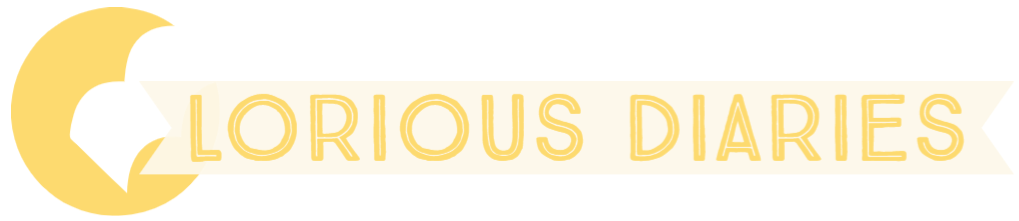
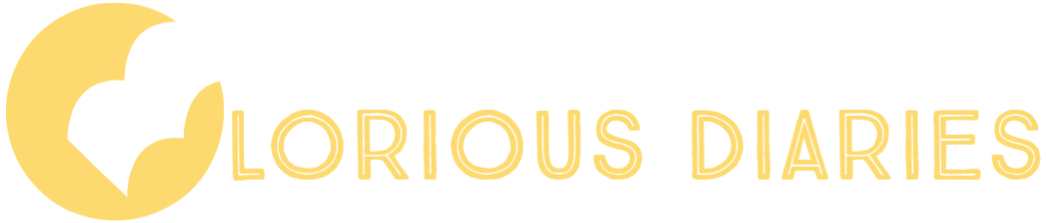
Update

diff --git a/components/Footer.js b/components/Footer.js
@@ -6,61 +6,65 @@ import mailIcon from "../public/images/mail_icon.svg"
 import phoneIcon from "../public/images/phone_icon.svg"
 import instaLogo from "../public/images/insta_logo.svg"
 import facebookLogo from "../public/images/facebook_logo.svg"
+import logoFooter from "../public/images/glorious_diaries_footer.png"
 
 
 export default function Footer() {
     return (
         <div className={styles.container}>
+            <div className={styles.logo_footer}>
+                <Image src={logoFooter} alt="Glorious Diaries Footer Logo" width={470} height={100} />
+            </div>
             <div className={styles.navigate_container}>
                 <h1>navigate.</h1>
                 <div className={styles.links_container}>
                     <div>
                         <Link href="/">
-                            <h2>Home ></h2>
+                            <h2>Home &gt;</h2>
                         </Link>
                         <Link href="/about">
-                            <h2>About ></h2>
+                            <h2>About &gt;</h2>
                         </Link>
                         <Link href="/team">
-                            <h2>Our Team ></h2>
+                            <h2>Our Team &gt;</h2>
                         </Link>
                         <Link href="/shop">
-                            <h2>Shop ></h2>
+                            <h2>Shop &gt;</h2>
                         </Link>
                         <Link href="/commissions">
-                            <h2>Commissions ></h2>
+                            <h2>Commissions &gt;</h2>
                         </Link>
                     </div>
                     <div>
-                        <h2>Journey to 1000 Trails ></h2>
-                        <h2>Medlife ></h2>
-                        <h2>To read/watch ></h2>
+                        <h2>Journey to 1000 Trails &gt;</h2>
+                        <h2>Medlife &gt;</h2>
+                        <h2>To read/watch &gt;</h2>
                     </div>
                 </div>
             </div>
             <div className={styles.ama_container}>
                 <h1>ask me anything.</h1>
                 <div className={styles.ama_info}>
-                    <Image src={mailIcon} rel="Mail Icon" />
+                    <Image src={mailIcon} alt="Mail Icon" />
                     <h3>QandA@gloriousdiaries.com</h3>
                 </div>
                 <div className={styles.ama_info}>
-                    <Image src={phoneIcon} rel="Phone Icon" />
+                    <Image src={phoneIcon} alt="Phone Icon" />
                     <h3>+1 (###) - ### - ####</h3>
                 </div>
             </div>
             <div>
-                <h1>let's connect.</h1>
+                <h1>let&apos;s connect.</h1>
                 <div className={styles.connect_icons}>
                     <div className={styles.connect_icon}>
-                        <Link href="https://www.instagram.com/glostar_ma/">
-                            <Image src={instaLogo} rel="Instagram Logo" />
-                        </Link>
+                        <a target="_blank" href="https://www.instagram.com/glostar_ma/" rel="noopener noreferrer">
+                            <Image src={instaLogo} alt="Instagram Logo" />
+                        </a>
                     </div>
                     <div className={styles.connect_icon}>
-                        <Link href="https://www.facebook.com/xixi.ma.14">
-                            <Image src={facebookLogo} rel="Facebook Logo" />
-                        </Link>
+                        <a target="_blank" href="https://www.facebook.com/xixi.ma.14" rel="noopener noreferrer">
+                            <Image src={facebookLogo} alt="Facebook Logo" />
+                        </a>
                     </div>
                 </div>
             </div>

diff --git a/styles/Home.module.css b/styles/Home.module.css
@@ -1,116 +1,28 @@
 .container {
-  padding: 0 2rem;
-}
-
-.main {
-  min-height: 100vh;
-  padding: 4rem 0;
-  flex: 1;
   display: flex;
   flex-direction: column;
-  justify-content: center;
-  align-items: center;
+  height: 100vh;
 }
 
-.footer {
-  display: flex;
-  flex: 1;
-  padding: 2rem 0;
-  border-top: 1px solid #eaeaea;
-  justify-content: center;
-  align-items: center;
-}
-
-.footer a {
+.banner {
+  background-image: url("/images/circles_background.png");
   display: flex;
   justify-content: center;
   align-items: center;
-  flex-grow: 1;
+  padding: 60px;
 }
 
-.title a {
-  color: #0070f3;
-  text-decoration: none;
-}
-
-.title a:hover,
-.title a:focus,
-.title a:active {
-  text-decoration: underline;
-}
-
-.title {
-  margin: 0;
-  line-height: 1.15;
-  font-size: 4rem;
-}
-
-.title,
-.description {
-  text-align: center;
-}
-
-.description {
-  margin: 4rem 0;
-  line-height: 1.5;
-  font-size: 1.5rem;
-}
-
-.code {
-  background: #fafafa;
-  border-radius: 5px;
-  padding: 0.75rem;
-  font-size: 1.1rem;
-  font-family: Menlo, Monaco, Lucida Console, Liberation Mono, DejaVu Sans Mono,
-    Bitstream Vera Sans Mono, Courier New, monospace;
-}
-
-.grid {
+.center_banner {
+  background-color: white;
+  justify-content: center;
   display: flex;
   align-items: center;
-  justify-content: center;
-  flex-wrap: wrap;
-  max-width: 800px;
+  flex-direction: column;
+  padding: 30px;
 }
 
-.card {
-  margin: 1rem;
-  padding: 1.5rem;
-  text-align: left;
-  color: inherit;
-  text-decoration: none;
-  border: 1px solid #eaeaea;
-  border-radius: 10px;
-  transition: color 0.15s ease, border-color 0.15s ease;
-  max-width: 300px;
-}
-
-.card:hover,
-.card:focus,
-.card:active {
-  color: #0070f3;
-  border-color: #0070f3;
-}
-
-.card h2 {
-  margin: 0 0 1rem 0;
-  font-size: 1.5rem;
-}
-
-.card p {
-  margin: 0;
-  font-size: 1.25rem;
-  line-height: 1.5;
-}
-
-.logo {
-  height: 1em;
-  margin-left: 0.5rem;
-}
-
-@media (max-width: 600px) {
-  .grid {
-    width: 100%;
-    flex-direction: column;
-  }
+.center_banner > p {
+  font-family: "Bubbler One";
+  font-size: 35px;
+  margin-top: 30px;
 }

diff --git a/pages/index.js b/pages/index.js
@@ -1,11 +1,23 @@
 import Head from 'next/head'
 import Image from 'next/image'
+import ellipse1 from "../public/images/ellipse_1.png"
+import ellipse2 from "../public/images/ellipse_2.png"
+import welcomeImage from "../public/images/welcome.svg"
 import styles from '../styles/Home.module.css'
 
 export default function Home() {
   return (
-    <div className={styles.main}>
-
+    <div className={styles.container}>
+      <div className={styles.banner}>
+        <div className={styles.center_banner}>
+          <Image src={welcomeImage} alt="Welcome to the Blog" width={350} height={100} />
+          <p>Whatever is your reason for stopping by, I hope you find what you&apos;re looking for and enjoy your stay</p>
+          <div>
+            <Image src={ellipse1} alt="Creative Works" width={200} height={200} />
+            <Image src={ellipse2} alt="Entertainment" width={200} height={200} />
+          </div>
+        </div>
+      </div>
     </div>
   )
 }

diff --git a/styles/Footer.module.css b/styles/Footer.module.css
@@ -1,7 +1,7 @@
 .container {
     display: flex;
     align-items: center;
-    justify-content: space-evenly;
+    justify-content: space-around;
     font-family: "ABeeZee";
     background-color: #FFEBAD;
 }
@@ -62,4 +62,9 @@
 
 .connect_icon:hover {
     cursor: pointer;
+}
+
+.logo_footer {
+    margin-bottom: 118px;
+    margin-right: 400px;
 }

diff --git a/styles/Header.module.css b/styles/Header.module.css
@@ -19,6 +19,7 @@
 
 .logo_container {
     width: 22vw;
+    padding-left: 16px;
 }
 
 .header_logo:hover {
